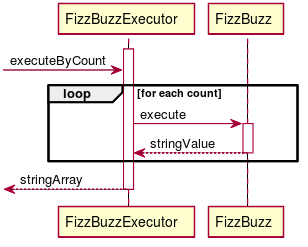
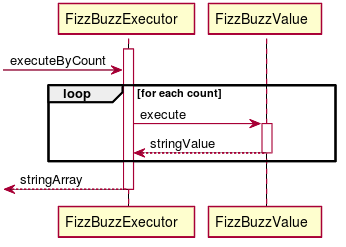
FizzBuzz #EFJ-8
・実装：新しい条件を追加しやすくする

diff --git a/docs/src/fizzbuzz.md b/docs/src/fizzbuzz.md
@@ -36,16 +36,16 @@ class FizzBuzzExecutor {
   +excueteByCount(count:int) :String[]
 }
 abstract class FizzBuzzValue {
-  +execute(number:int) :String
+  +execute() :String
 }
 class FizzBuzz {
-  +execute(number:int) :String
+  +execute() :String
 }
 class Fizz {
-  +execute(number:int) :String
+  +execute() :String
 }
 class Buzz {
-  +execute(number:int) :String  
+  +execute() :String  
 }
 FizzBuzzExecutor -> FizzBuzzValue
 FizzBuzzValue <|-- Fizz
@@ -71,6 +71,11 @@ FizzBuzzValue <|-- FizzBuzz
 ```
 
 ## 実装
+###ふりかえり
++ オープン・クローズドの原則(OCP)に従い設計を変更した
++ 抽象クラスを作成した
++ 抽象クラスを継承したクラスを作成するにあたってインスタンスを生成するようにした
++ 文字列を返す仕様は変更していないのでテストを壊すことなくアプリケーション構造を変更した
 
 ### `FizzBuzzTest.java`
 @import "../../src/test/java/tdd/fizzbuzz/FizzBuzzTest.java"

diff --git a/docs/fizzbuzz.md b/docs/fizzbuzz.md
@@ -28,14 +28,20 @@
 ### クラス図
   
 
-![](./assets/40b84e327c2d377e13e9a6639722fa8b0.png?0.2824543273684368)  
+![](./assets/e8d064149b1f1533be1aa0a12f272e560.png?0.9280814673496562)  
 ### シーケンス図
   
 
-![](./assets/40b84e327c2d377e13e9a6639722fa8b1.png?0.4961534090602302)  
+![](./assets/e8d064149b1f1533be1aa0a12f272e561.png?0.2901953619389872)  
   
 ## 実装
   
+### ふりかえり
+  
++ オープン・クローズドの原則(OCP)に従い設計を変更した
++ 抽象クラスを作成した
++ 抽象クラスを継承したクラスを作成するにあたってインスタンスを生成するようにした
++ 文字列を返す仕様は変更していないのでテストを壊すことなくアプリケーション構造を変更した
   
 ### `FizzBuzzTest.java`
   
